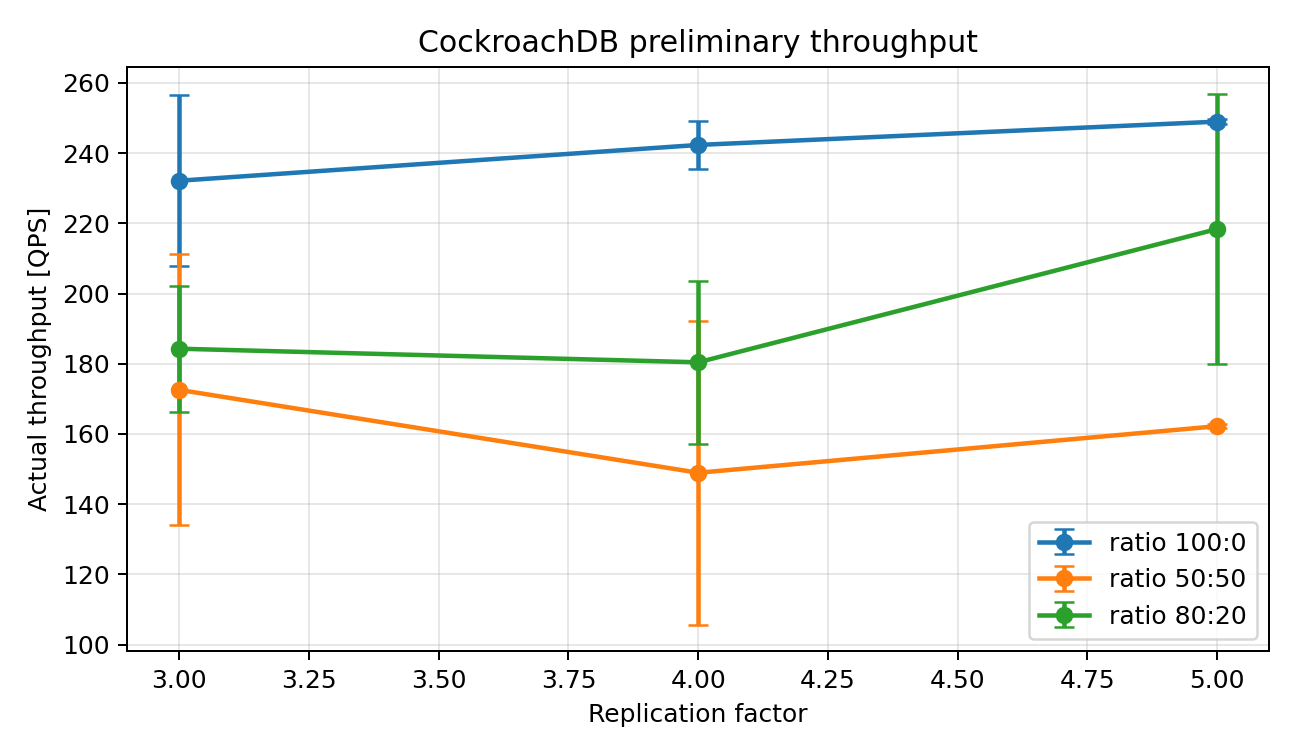
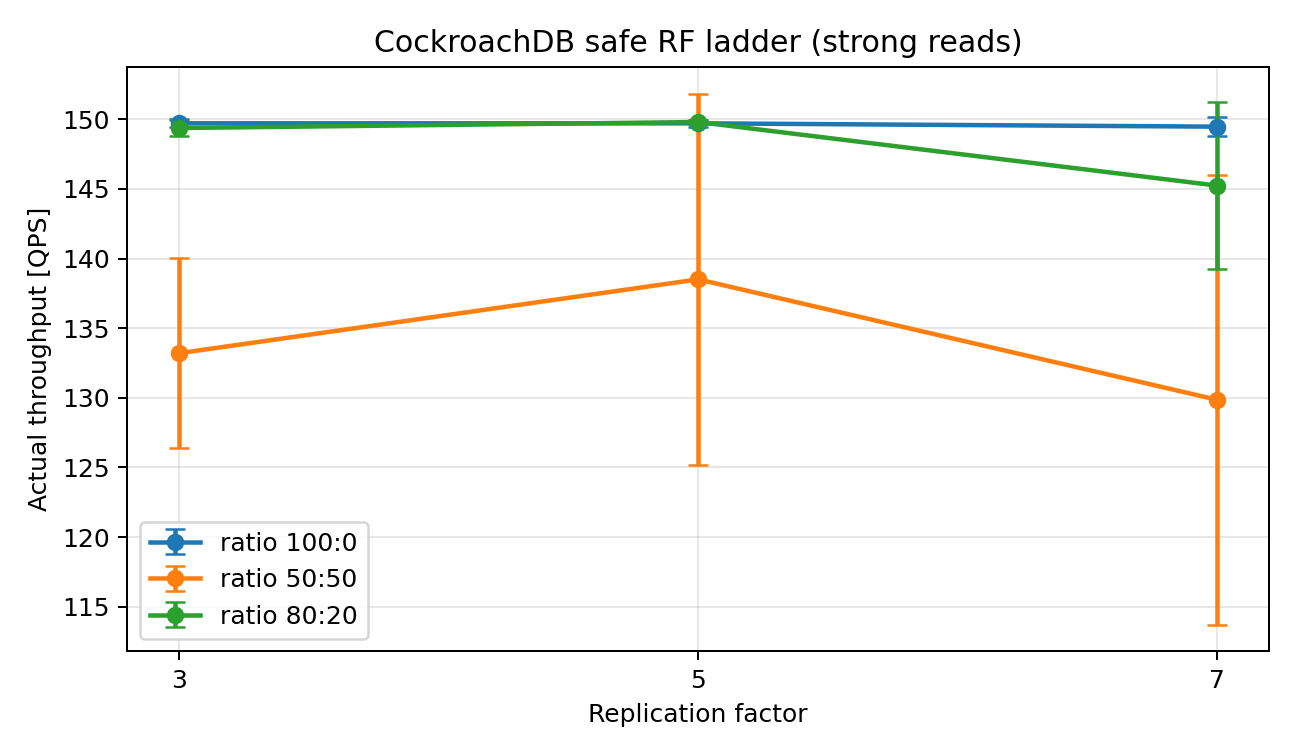
Add validated CockroachDB RF ladder results

diff --git a/scripts/plot_preliminary_figures.py b/scripts/plot_preliminary_figures.py
@@ -7,7 +7,7 @@ import pandas as pd
 
 
 def plot_cockroach(data_dir: Path, out_dir: Path) -> None:
-    df = pd.read_csv(data_dir / "cockroach_rf_sweep_bg_20260617_summary_grouped.csv")
+    df = pd.read_csv(data_dir / "cockroach_rf_ladder_safe_20260625_summary_grouped.csv")
     df = df.sort_values(["ratio", "rf"])
 
     plt.figure(figsize=(7.2, 4.2))
@@ -24,7 +24,8 @@ def plot_cockroach(data_dir: Path, out_dir: Path) -> None:
         )
     plt.xlabel("Replication factor")
     plt.ylabel("Actual throughput [QPS]")
-    plt.title("CockroachDB preliminary throughput")
+    plt.title("CockroachDB safe RF ladder (strong reads)")
+    plt.xticks(sorted(df["rf"].unique()))
     plt.grid(True, alpha=0.3)
     plt.legend()
     plt.tight_layout()

diff --git a/docs/project_status.md b/docs/project_status.md
@@ -38,7 +38,7 @@ limitations.
 - Validation: PASS
 - Curated CSV: `paper/data/preliminary/hdfs_rf_sweep_seed_20260623_*`
 
-## Current CockroachDB RF ladder
+### CockroachDB safe RF ladder
 
 - Directory: `results/cockroach_rf_ladder_safe_20260625`
 - RF: 3, 5, 7
@@ -49,22 +49,24 @@ limitations.
 - Logs:
   - `results/cockroach_rf_ladder_safe_20260625.stdout.log`
   - `results/cockroach_rf_ladder_safe_20260625.stderr.log`
+- 27/27 runs completed
+- Zero connect, read, write, and metrics errors
+- Validation: PASS
+- Cluster after completion: 9/9 containers running
+- Curated CSV: `paper/data/preliminary/cockroach_rf_ladder_safe_20260625_*`
 
-At the last manual check, the first run (RF=7, ratio 50:50) completed with zero
-errors and 129.75 actual QPS. The sweep was continuing with the next RF=7 run.
-Do not stop it merely to inspect progress.
+Mean actual QPS (standard deviation):
 
-After completion:
+| Ratio | RF=3 | RF=5 | RF=7 |
+|---|---:|---:|---:|
+| 100:0 | 149.71 (0.30) | 149.71 (0.27) | 149.47 (0.67) |
+| 80:20 | 149.37 (0.57) | 149.80 (0.16) | 145.24 (6.00) |
+| 50:50 | 133.20 (6.84) | 138.50 (13.33) | 129.86 (16.14) |
 
-1. Validate the full 27-run matrix for RF 3,5,7; ratios 100:0,80:20,50:50; and
-   three repetitions.
-2. Run the CockroachDB analyzer.
-3. Inspect error counts, metrics error rows, actual-vs-target QPS, variance, and
-   cluster stability.
-4. Curate the run and grouped summary CSV only if the dataset is internally
-   complete and suitable as preliminary paper evidence.
-5. Regenerate figures and update `paper/short_paper_draft.md` without
-   overstating the local result.
+The read-only series and most 80:20 runs reached the configured 150 QPS cap,
+so they demonstrate stability but not maximum capacity. The 50:50 series shows
+saturation, substantial run-to-run variation, and no monotonic RF benefit.
+Treat this as strong preliminary local evidence, not paper-grade proof.
 
 ## Diagnostic RF=9 attempt
 
@@ -75,8 +77,10 @@ limit; do not mix them into throughput curves or paper-grade comparisons.
 
 ## Known follow-up work
 
-- Complete and evaluate the safe RF=3,5,7 CockroachDB ladder.
-- Add CockroachDB latency figures if metric coverage is consistent.
+- Repeat key CockroachDB cases with at least 180-second runs and a load sweep
+  that exposes the saturation boundary instead of capping results at 150 QPS.
+- Add CockroachDB latency figures after checking metric resolution and
+  aggregation semantics.
 - Run a larger HDFS paper-grade sweep with larger data, at least three
   repetitions, and documented cache handling.
 - Decide whether follower reads belong in the main comparison or future work.

diff --git a/paper/short_paper_draft.md b/paper/short_paper_draft.md
@@ -63,9 +63,9 @@ RQ3. Under which consistency, placement, workload-duration, and geographic condi
 
 The CockroachDB experiment uses a local Docker Compose cluster with nine CockroachDB nodes. A benchmark table is recreated before each run. The replication factor is varied, and workloads are generated with configurable read/write ratios. For each run, the experiment records target and actual throughput, read and write success counts, error counts, SQL-level latency metrics, KV execution latency metrics, and process memory metrics where available.
 
-The current preliminary sweep uses replication factors 3, 4, and 5, read/write ratios 100:0, 80:20, and 50:50, two repetitions, randomized run order, 90 seconds of workload duration, 30 seconds of cooldown, and a target of 250 QPS. These settings are intentionally smaller than the intended paper-grade experiment, but they are sufficient to test the pipeline and expose early behavior.
+The current safe local ladder uses replication factors 3, 5, and 7; read/write ratios 100:0, 80:20, and 50:50; three repetitions; randomized run order; 90 seconds of workload duration; 30 seconds of cooldown; and a target of 150 QPS. The full 27-run matrix completed with zero connect, read, write, and metrics errors, passed validation, and left all nine CockroachDB containers running.
 
-Paper-grade runs should extend this design to more repetitions and longer durations. The current safe local ladder uses RF=3, 5, and 7. Higher RF values should be included only in an environment that can sustain them without destabilizing the cluster; the failed local RF=9 attempt is diagnostic evidence about an environment limit and must not be mixed into performance curves. Runs should remain randomized and should include validation that all containers remain live and all error counts remain zero.
+These settings provide stronger preliminary evidence than the earlier two-repetition seed, but they remain below the paper-grade design target of at least 180 seconds per run. The 150 QPS cap also means that read-only and most 80:20 observations measure successful target attainment rather than maximum throughput. Higher RF values should be included only in an environment that can sustain them without destabilizing the cluster; the failed local RF=9 attempt is diagnostic evidence about an environment limit and is not included in performance curves.
 
 ### 4.2 File-Storage Contrast
 
@@ -83,21 +83,23 @@ The repository includes scripts for running sweeps, collecting metrics, validati
 
 ### 5.1 CockroachDB: The Primary Result
 
-The current CockroachDB preliminary sweep completed 18 out of 18 planned runs with zero connect, read, and write errors. Table 1 summarizes actual throughput grouped by replication factor and read/write ratio.
+The safe CockroachDB ladder completed 27 out of 27 planned runs with zero connect, read, write, and metrics errors. Table 1 summarizes actual throughput across three repetitions.
 
-Table 1. Preliminary CockroachDB throughput summary.
+Table 1. Preliminary CockroachDB actual QPS, mean (standard deviation).
 
-| Ratio | RF=3 mean QPS | RF=4 mean QPS | RF=5 mean QPS |
+| Ratio | RF=3 | RF=5 | RF=7 |
 |---|---:|---:|---:|
-| 100:0 | 232.15 | 242.34 | 248.99 |
-| 80:20 | 184.28 | 180.41 | 218.39 |
-| 50:50 | 172.55 | 148.94 | 162.21 |
+| 100:0 | 149.71 (0.30) | 149.71 (0.27) | 149.47 (0.67) |
+| 80:20 | 149.37 (0.57) | 149.80 (0.16) | 145.24 (6.00) |
+| 50:50 | 133.20 (6.84) | 138.50 (13.33) | 129.86 (16.14) |
 
 ![Figure 1. Preliminary CockroachDB throughput by replication factor.](figures/preliminary_cockroach_qps.png)
 
-For the read-only workload, throughput remains in a similar range and increases slightly from RF=3 to RF=5. This does not show a large read-scaling effect from additional replicas. For the mixed workloads, the behavior is non-monotonic. In the 50:50 workload, RF=4 and RF=5 do not improve on RF=3 in the preliminary mean. In the 80:20 workload, RF=5 performs better than RF=3 and RF=4, but the standard deviation is also high, suggesting sensitivity to leaseholder placement, local resource contention, and background system activity.
+The read-only workload reaches the 150 QPS target at every RF with very little variation. This is evidence that all three configurations sustain the selected load, but it cannot establish equal maximum capacity or a read-scaling benefit because the workload generator caps the observation. RF=3 and RF=5 similarly reach the target in the 80:20 workload, while RF=7 averages 145.24 QPS and exhibits greater variation.
 
-These early results should therefore not be read as evidence that one specific RF is always optimal. A more careful interpretation is that increasing RF in CockroachDB under strong reads does not provide a simple or predictable throughput gain. The result is consistent with the architectural expectation that additional replicas participate in coordination rather than acting as independent read-serving copies.
+The 50:50 workload exposes a clearer saturation regime. Mean throughput is non-monotonic and variability is substantial: RF=5 has the highest mean, but its standard deviation is nearly twice that of RF=3, and RF=7 has both the lowest mean and the largest spread. No RF provides a stable monotonic improvement. The result is consistent with the architectural expectation that additional voting replicas do not act as independent strong-read servers and may interact with consensus work, leaseholder placement, range reconfiguration, and shared-host contention.
+
+The safe ladder therefore strengthens the negative result without identifying a universally optimal RF. It supports the claim that RF alone is not a predictable strong-read scaling control in this setup. A follow-up load sweep is still needed to estimate capacity boundaries at each RF rather than comparing configurations under a single capped target.
 
 ### 5.2 HDFS: Interpreting the Contrast
 

diff --git a/paper/data/preliminary/README.md b/paper/data/preliminary/README.md
@@ -6,9 +6,16 @@ Included files:
 
 - `cockroach_rf_sweep_bg_20260617_runs.csv` - per-run results for a completed local CockroachDB sweep.
 - `cockroach_rf_sweep_bg_20260617_summary_grouped.csv` - grouped CockroachDB summary with mean/std/count fields.
+- `cockroach_rf_ladder_safe_20260625_runs.csv` - per-run results for the validated RF=3,5,7 safe ladder.
+- `cockroach_rf_ladder_safe_20260625_summary_grouped.csv` - grouped throughput and selected latency summary for the safe ladder.
+- `cockroach_rf_ladder_safe_20260625_summary_metrics_grouped.csv` - compact grouped metric summary for the safe ladder.
 - `hdfs_smoke_runs.csv` - per-run HDFS smoke-test results.
 - `hdfs_smoke_summary_grouped.csv` - grouped HDFS smoke-test summary.
 - `hdfs_rf_sweep_seed_20260623_runs.csv` - per-run results for a completed local HDFS RF seed sweep.
 - `hdfs_rf_sweep_seed_20260623_summary_grouped.csv` - grouped HDFS seed summary with mean/std/count fields.
+
+The safe ladder completed 27/27 runs with zero workload and metric errors, but
+it remains preliminary evidence: runs lasted 90 seconds on one shared Docker
+host and the 150 QPS target capped the read-only and most 80:20 observations.
 
 The raw `results/` directory remains ignored because it contains generated logs, plots, per-run metrics, and intermediate files. Larger or final paper-grade datasets should be published separately or added here only as curated summary artifacts.